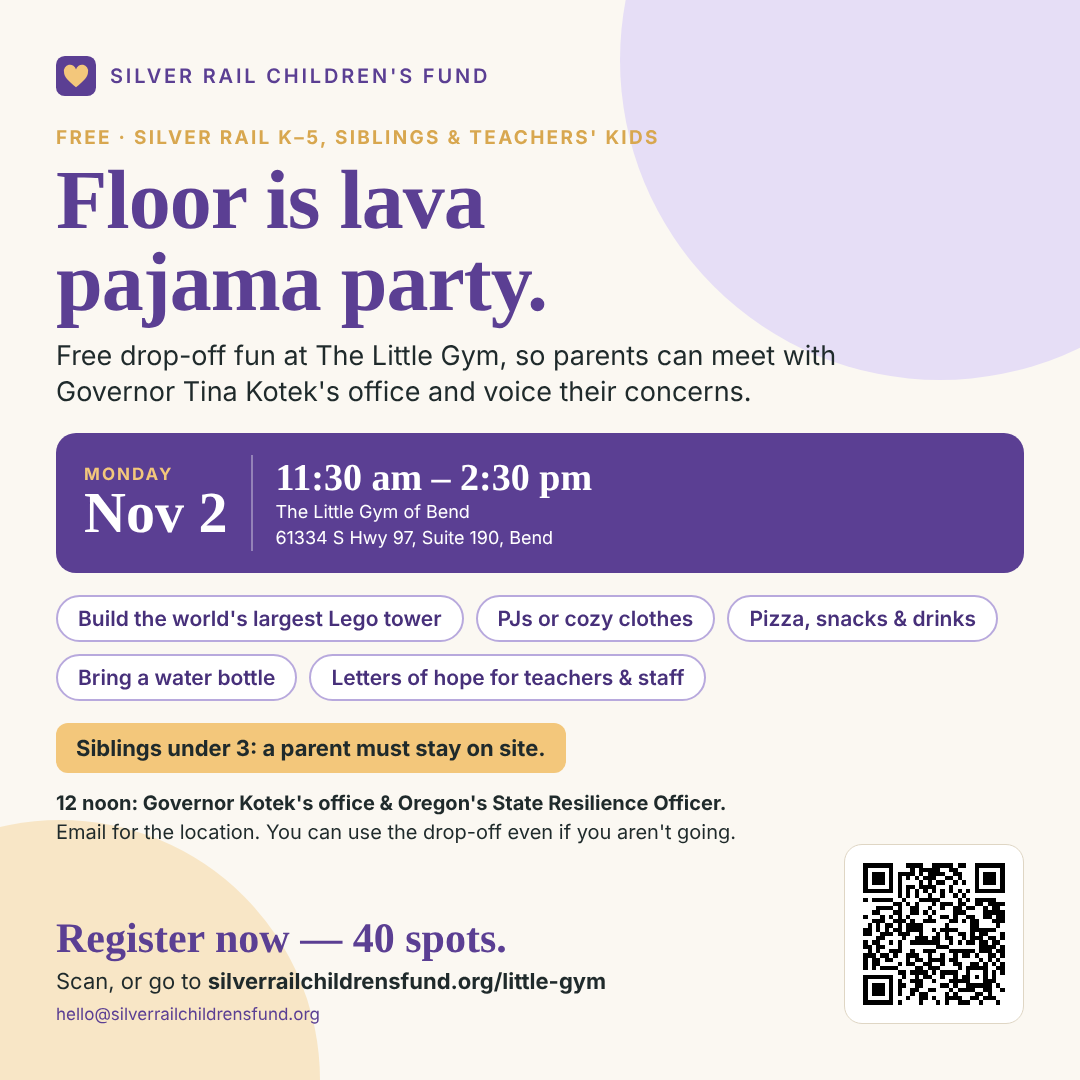
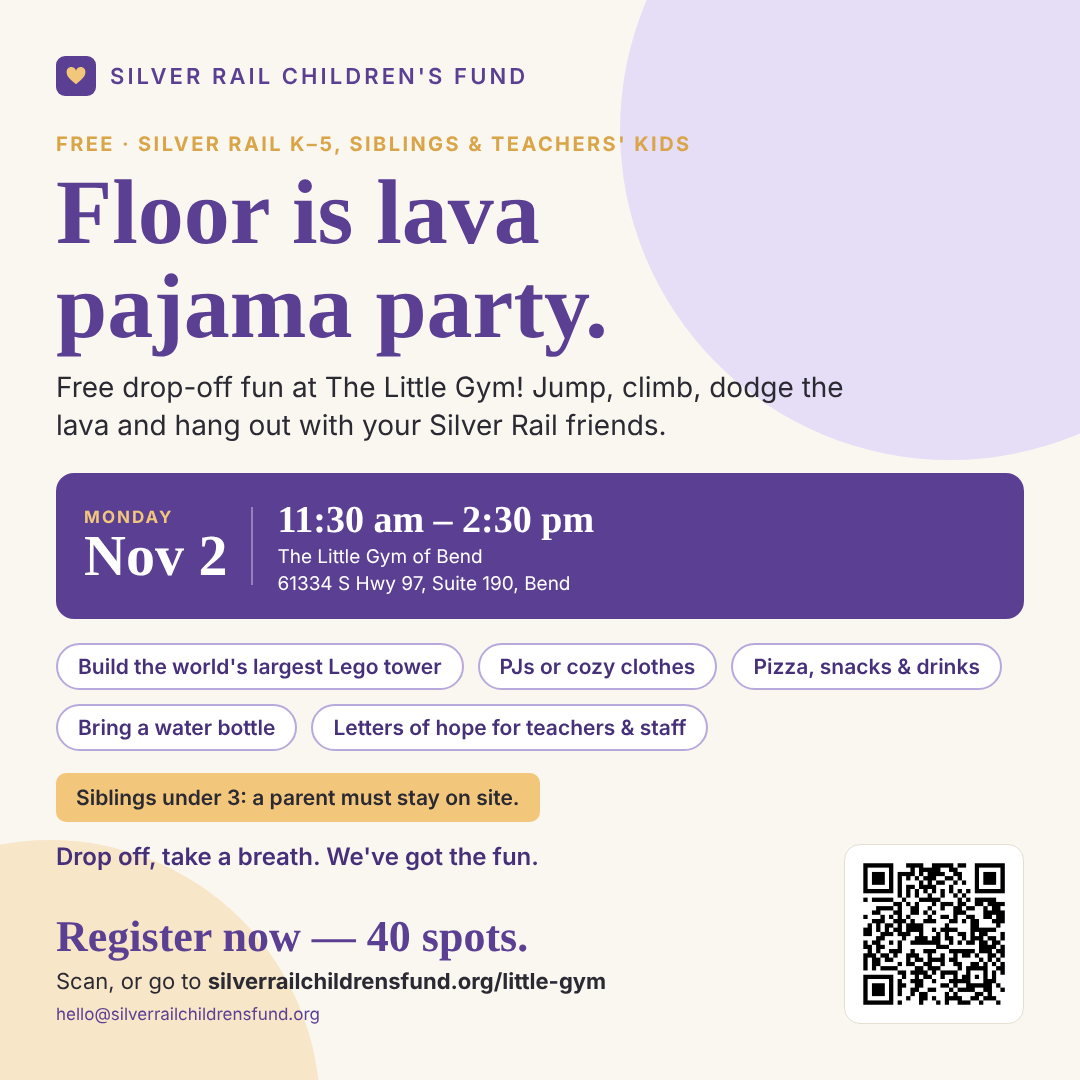
Little Gym graphics: remove Governor's office meeting mention
Claude-Session: https://claude.ai/code/session_01H4F1UEtHbwHYjooqi7ZtXr

diff --git a/index.html b/index.html
@@ -265,7 +265,7 @@ footer.sf .sf-legal a{color:var(--ink-2)}
 <section id="little-gym" style="padding:40px 0 0;border:0">
   <div class="wrap">
     <div class="event">
-      <img src="assets/little-gym-square.png" alt="Floor is lava pajama party for Silver Rail kids, Monday November 2, 11:30 am to 2:30 pm at The Little Gym of Bend">
+      <img src="assets/little-gym-square.png?v=2" alt="Floor is lava pajama party for Silver Rail kids, Monday November 2, 11:30 am to 2:30 pm at The Little Gym of Bend">
       <div>
         <div class="eyebrow">Monday, Nov 2 · 11:30 am–2:30 pm · free</div>
         <h2 style="margin-bottom:.3em">Floor is lava pajama party at The Little Gym.</h2>

diff --git a/parents.html b/parents.html
@@ -151,7 +151,7 @@ footer.sf .sf-legal a{color:var(--ink-2)}
 <section id="little-gym" style="padding:36px 0 0;border:0">
   <div class="wrap">
     <div class="event">
-      <img src="assets/little-gym-square.png" alt="Floor is lava pajama party for Silver Rail kids, Monday November 2, 11:30 am to 2:30 pm at The Little Gym of Bend">
+      <img src="assets/little-gym-square.png?v=2" alt="Floor is lava pajama party for Silver Rail kids, Monday November 2, 11:30 am to 2:30 pm at The Little Gym of Bend">
       <div>
         <div class="eyebrow">Monday, Nov 2 · 11:30 am–2:30 pm · free</div>
         <h2 style="margin-bottom:.3em">Floor is lava pajama party at The Little Gym.</h2>
